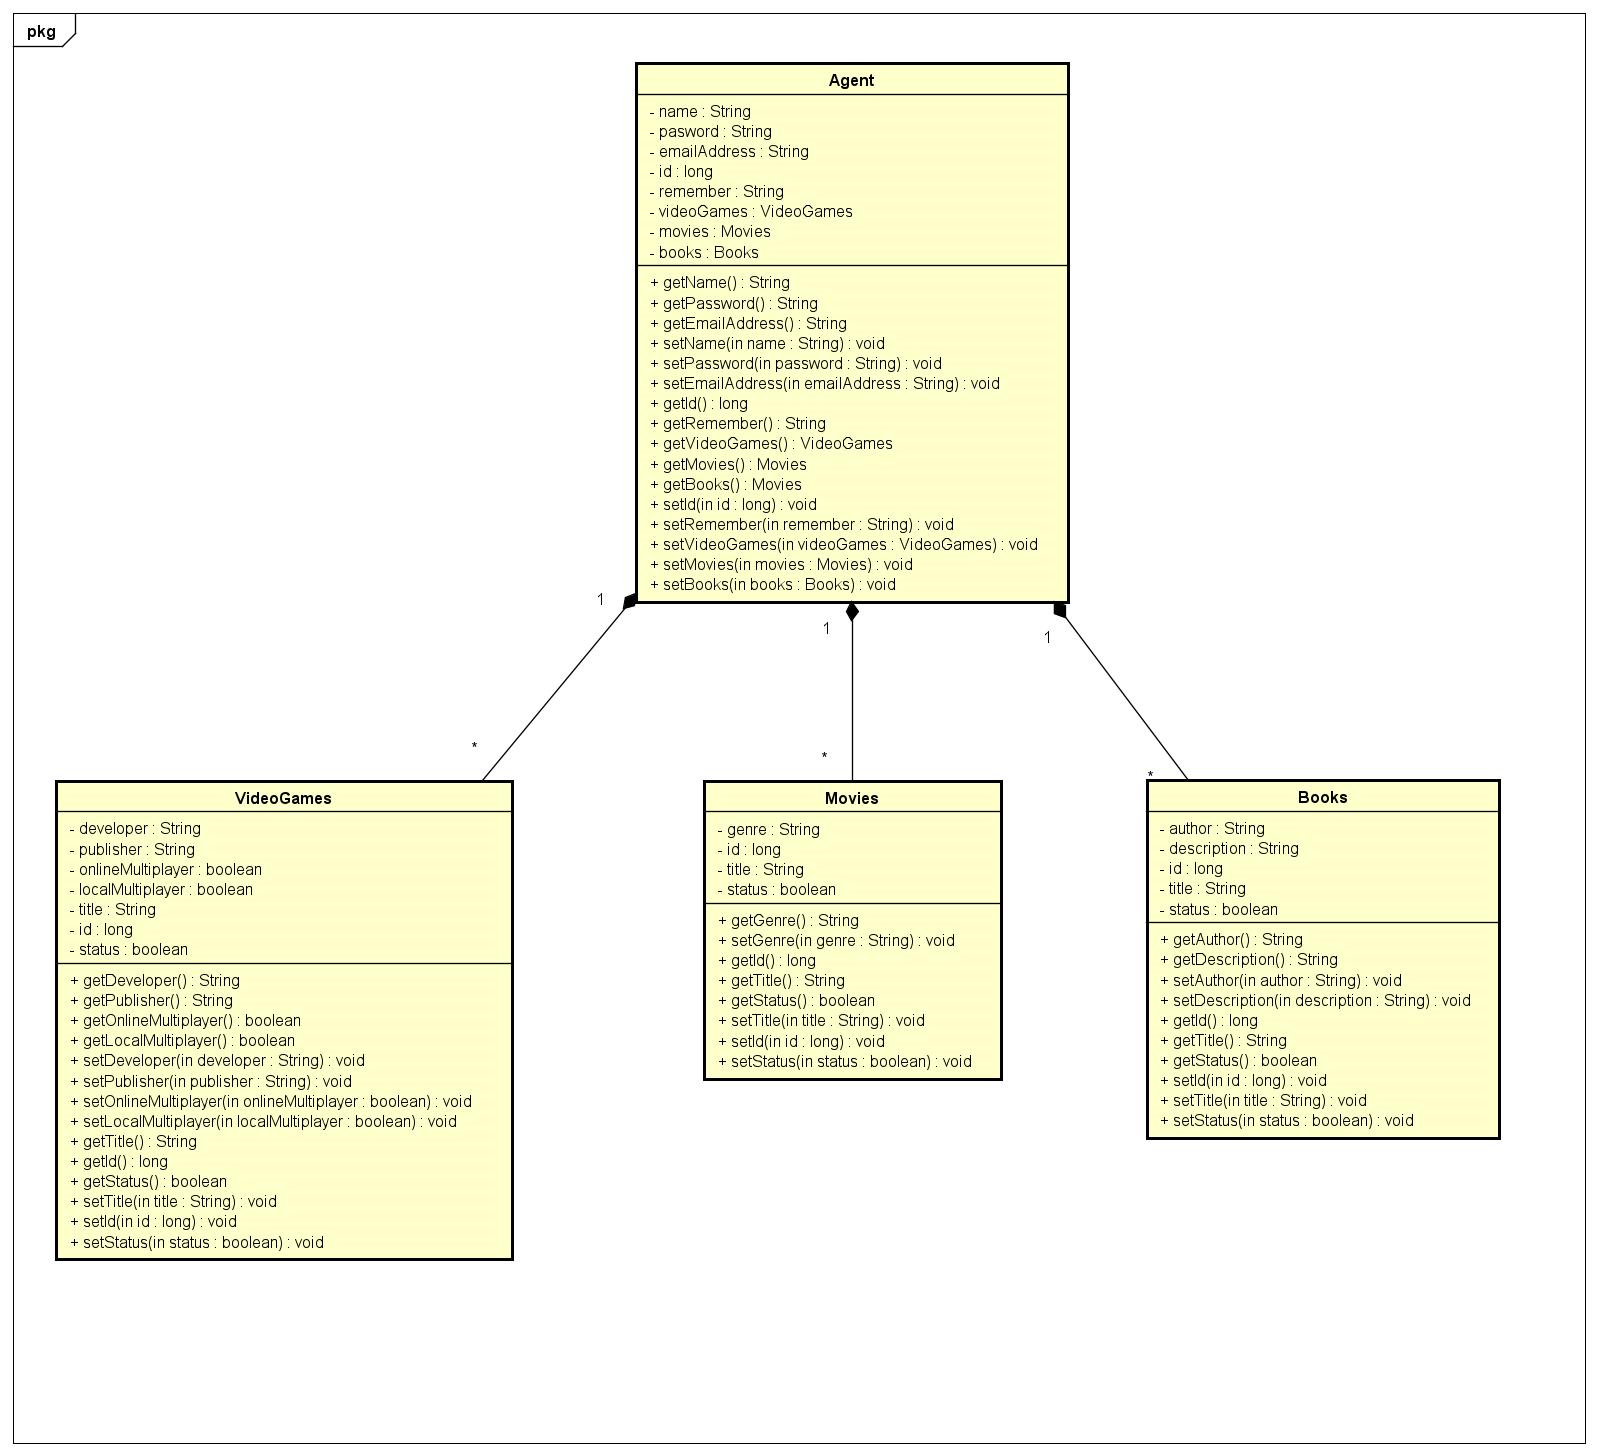
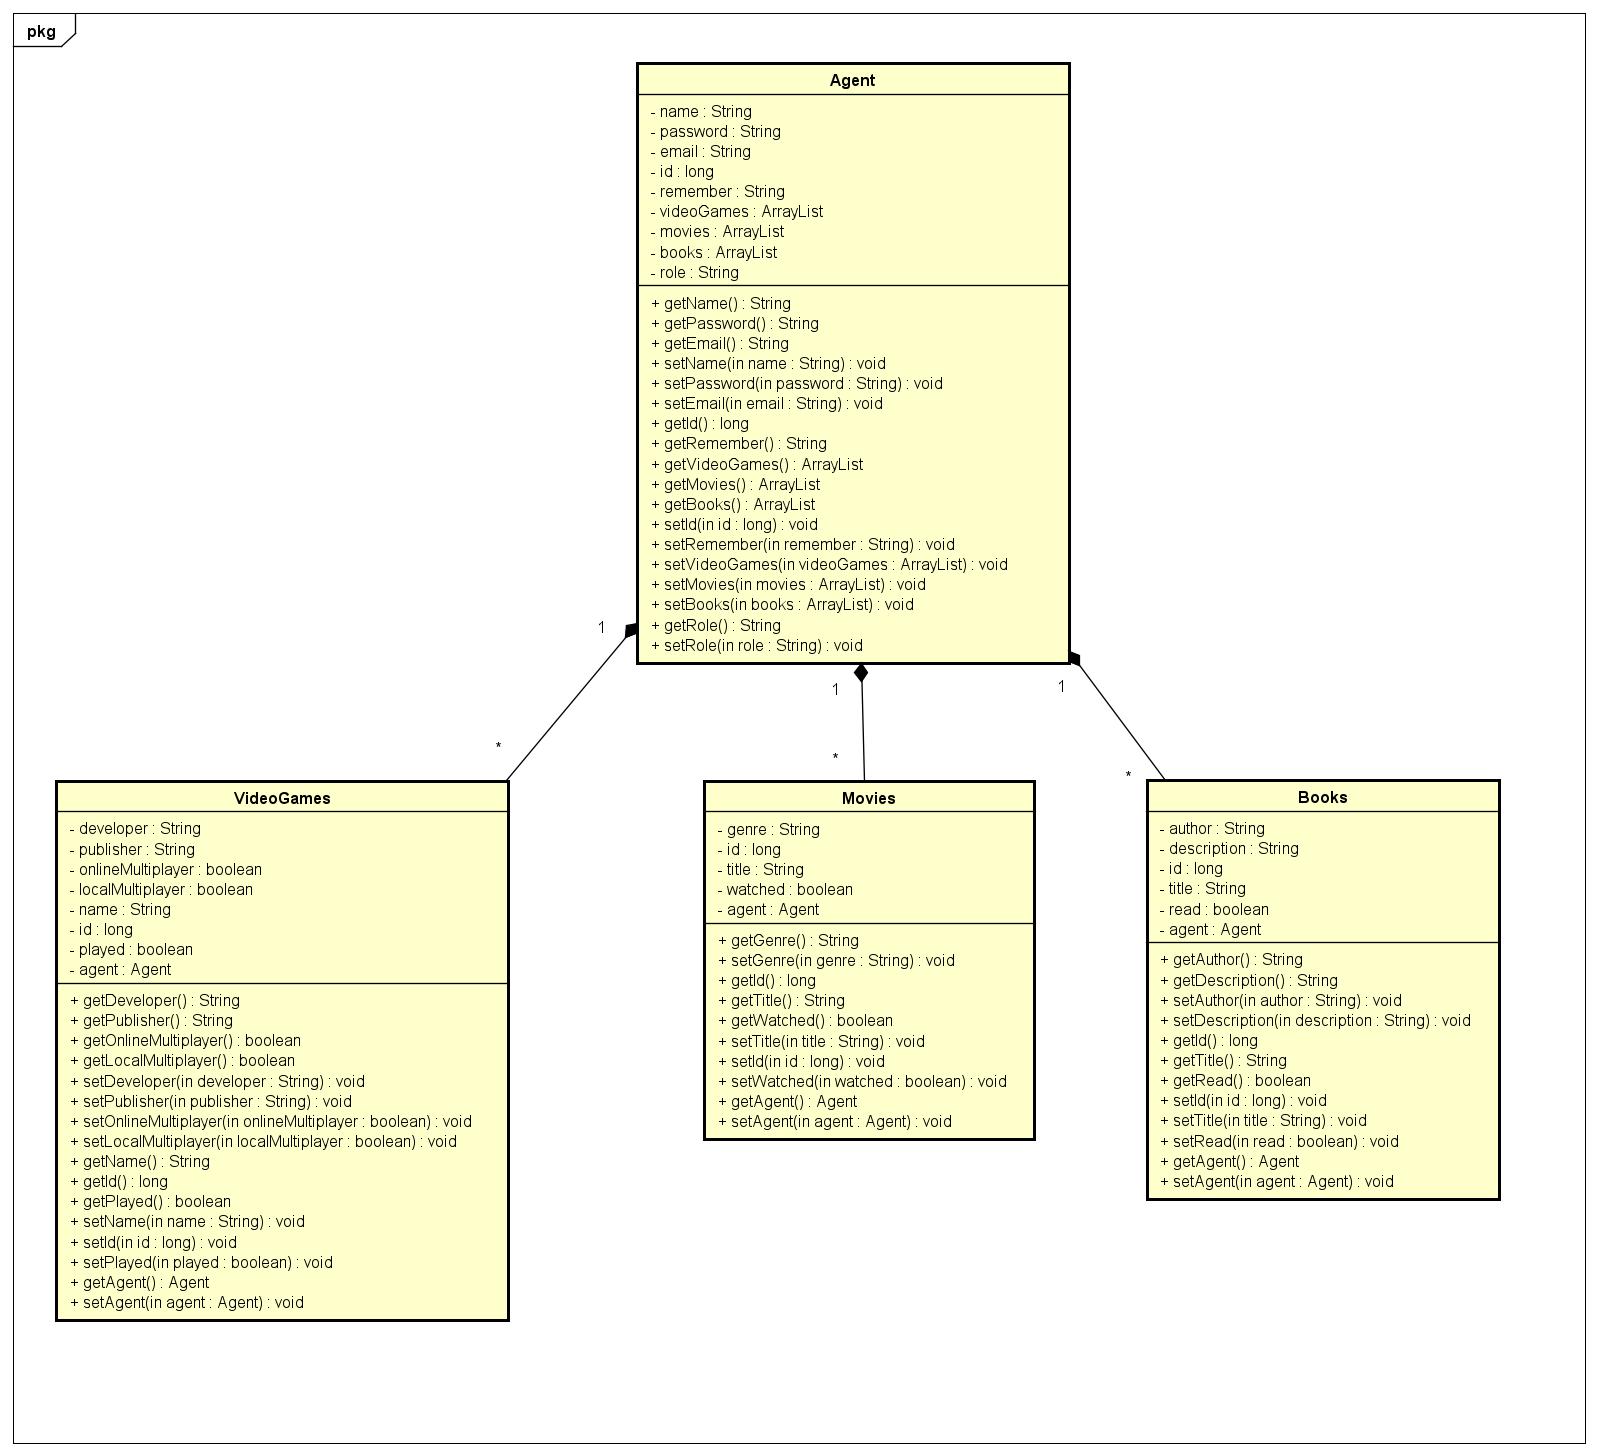
Update Readme

diff --git a/README.md b/README.md
@@ -28,6 +28,7 @@ As a {User}, I want to be able to reset the password of my account in case my ac
 ```
 
 ##Customized Use Cases
+![](images/use-case.png)
 ```
 Login and Registration Use-Cases:
 
@@ -82,6 +83,9 @@ As a {User}, I want to be able to save the entry for each collection with the ac
 As a {User}, I wanto to have an unique ID-Number for every entry for each collection so that I can distinguish each entry.
 ```
 
+##Domain-model
+
+![](images/domain-model.png)
 
 ## Mission / Initial Goal
 
@@ -90,6 +94,10 @@ The initial goal of the website was to create and build an ecommerce platform th
 ## Problem Statement
 
 Because of the ambitious goal to build an ecommerce website, the development team severely undererstimated the back-end development as well as the seemless integration of the front-end part of the website. In order to successfully deploy the website project as well as maintaining the given deadline, the team decided to cut features of the website and focus on the essential part of the website with the ambition to add the features later on.
+
+## Further Notes
+
+In the code the class customer was not used. However, for the sake of simplicity, it was not deleted.
 
 ## Result
 
